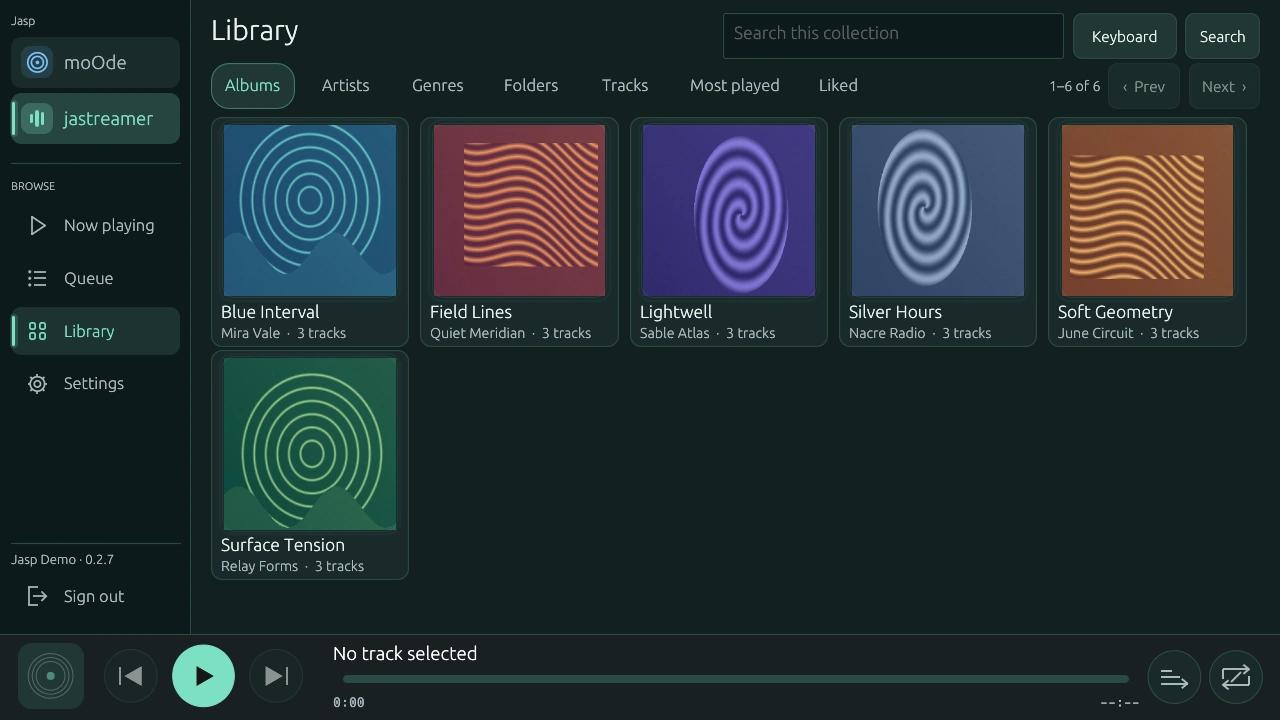
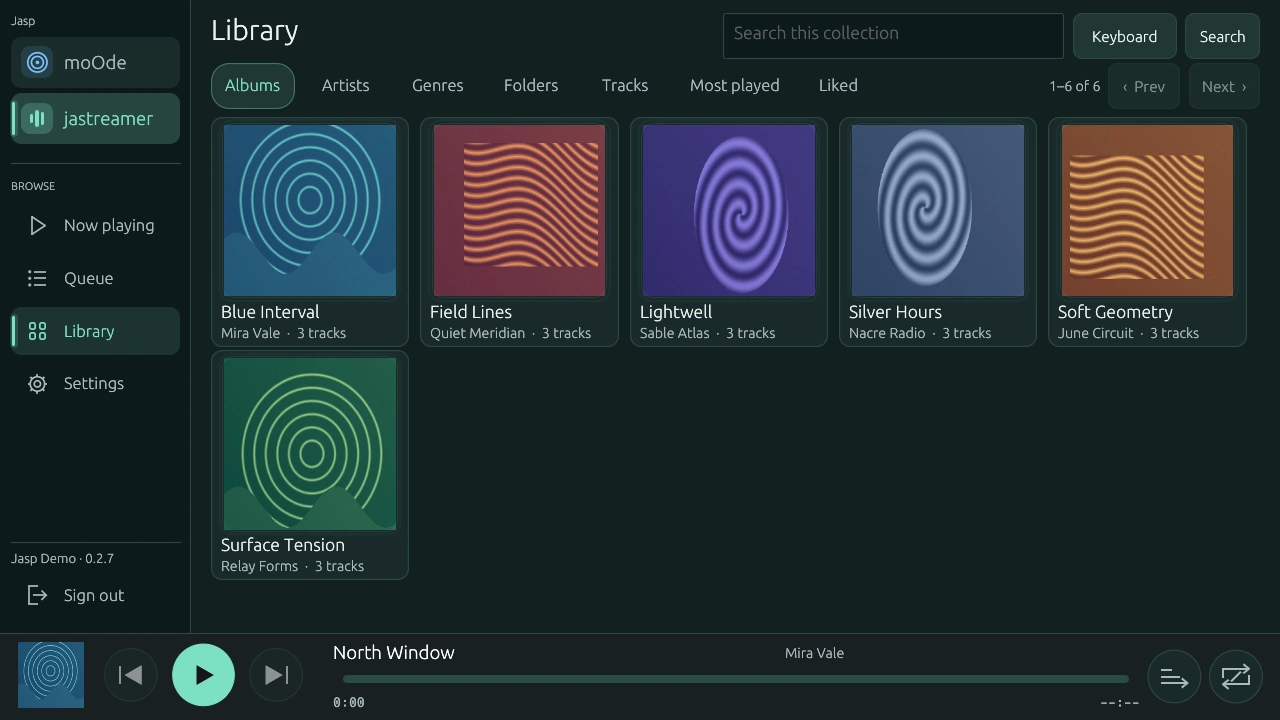
Slide pages horizontally and keep album covers in proportion

diff --git a/src/moode_library.rs b/src/moode_library.rs
@@ -449,10 +449,13 @@ fn library_error(ui: &mut Ui, error: &mut Option<String>) -> bool {
 fn album_grid(ui: &mut Ui, albums: &[Album], art: &mut Artwork) -> Option<usize> {
     let width = (ui.available_width() - 12.0).max(1.0);
     let gap = ui.spacing().item_spacing.x;
-    let columns = ((width + gap) / (164.0 + gap)).floor().max(1.0) as usize;
+    let columns = ((width + gap) / (158.0 + gap)).floor().clamp(1.0, 6.0) as usize;
     let cell = ((width - gap * (columns - 1) as f32) / columns as f32).max(1.0);
-    let side = (cell - 14.0).max(1.0);
-    let height = side + 58.0;
+    let chrome_height = 58.0;
+    let art_limit = ((ui.available_height() - ui.spacing().item_spacing.y) / 2.0 - chrome_height)
+        .clamp(112.0, 144.0);
+    let side = (cell - 14.0).clamp(1.0, art_limit);
+    let height = side + chrome_height;
     let mut selected = None;
     let unknown_artist = tr(ui, "Unknown artist");
     ui.label(RichText::new(format!("{} {}", albums.len(), tr(ui, "albums"))).size(13.0).color(MUTED));
@@ -469,7 +472,8 @@ fn album_grid(ui: &mut Ui, albums: &[Album], art: &mut Artwork) -> Option<usize>
                             chrome::focus_fill(ui, &response, theme::card(ui), theme::companion(ui).gamma_multiply(0.13));
                             ui.painter().rect_stroke(rect, 9, Stroke::new(1.0, theme::raised(ui)), egui::StrokeKind::Inside);
                             let cover = art.get(ui, &album.cover_file);
-                            let image = Rect::from_min_size(rect.left_top() + vec2(7.0, 7.0), vec2(side, side));
+                            let image = Rect::from_center_size(
+                                pos2(rect.center().x, rect.top() + 7.0 + side / 2.0), vec2(side, side));
                             paint_art(ui, image, cover);
                             if cover.is_some() { chrome::cover_halo(ui, image, theme::companion(ui), response.hovered()); }
                             line(ui, rect.left_top() + vec2(8.0, side + 11.0), cell - 16.0, &album.title, 16.0, Color32::WHITE);

diff --git a/src/ja_library.rs b/src/ja_library.rs
@@ -611,11 +611,10 @@ fn artwork(ui: &Ui, rect: Rect, cover: Option<&TextureHandle>, folder: bool) {
 }
 
 fn paint_cover(painter: &egui::Painter, rect: Rect, cover: &TextureHandle, tint: Color32) {
-    let ratio = cover.size_vec2();
-    let crop = ratio * (1.0 / ratio.max_elem());
-    let inset = (vec2(1.0, 1.0) - vec2(crop.y, crop.x)) * 0.5;
-    let uv = Rect::from_min_max(pos2(inset.x, inset.y), pos2(1.0 - inset.x, 1.0 - inset.y));
-    painter.image(cover.id(), rect, uv, tint);
+    let source = cover.size_vec2();
+    let scale = (rect.width() / source.x).min(rect.height() / source.y);
+    let image = Rect::from_center_size(rect.center(), source * scale);
+    painter.image(cover.id(), image, Rect::from_min_max(pos2(0.0, 0.0), pos2(1.0, 1.0)), tint);
 }
 
 fn album_tile(ui: &mut Ui, size: [f32; 2], title: &str, meta: &str, cover: Option<&TextureHandle>, side: f32) -> bool {

diff --git a/src/chrome.rs b/src/chrome.rs
@@ -80,7 +80,7 @@ impl Entrance {
         let remaining = (1.0 - phase).powi(3);
         if phase < 1.0 { ui.ctx().request_repaint(); }
         let bounds = ui.available_rect_before_wrap();
-        let shift = vec2(direction * 29.0 * remaining, 4.0 * remaining);
+        let shift = vec2(direction * 29.0 * remaining, 0.0);
         ui.scope_builder(egui::UiBuilder::new().max_rect(bounds.translate(shift)), |ui| {
             ui.set_clip_rect(ui.clip_rect().intersect(bounds));
             ui.multiply_opacity(1.0 - 0.60 * remaining);
